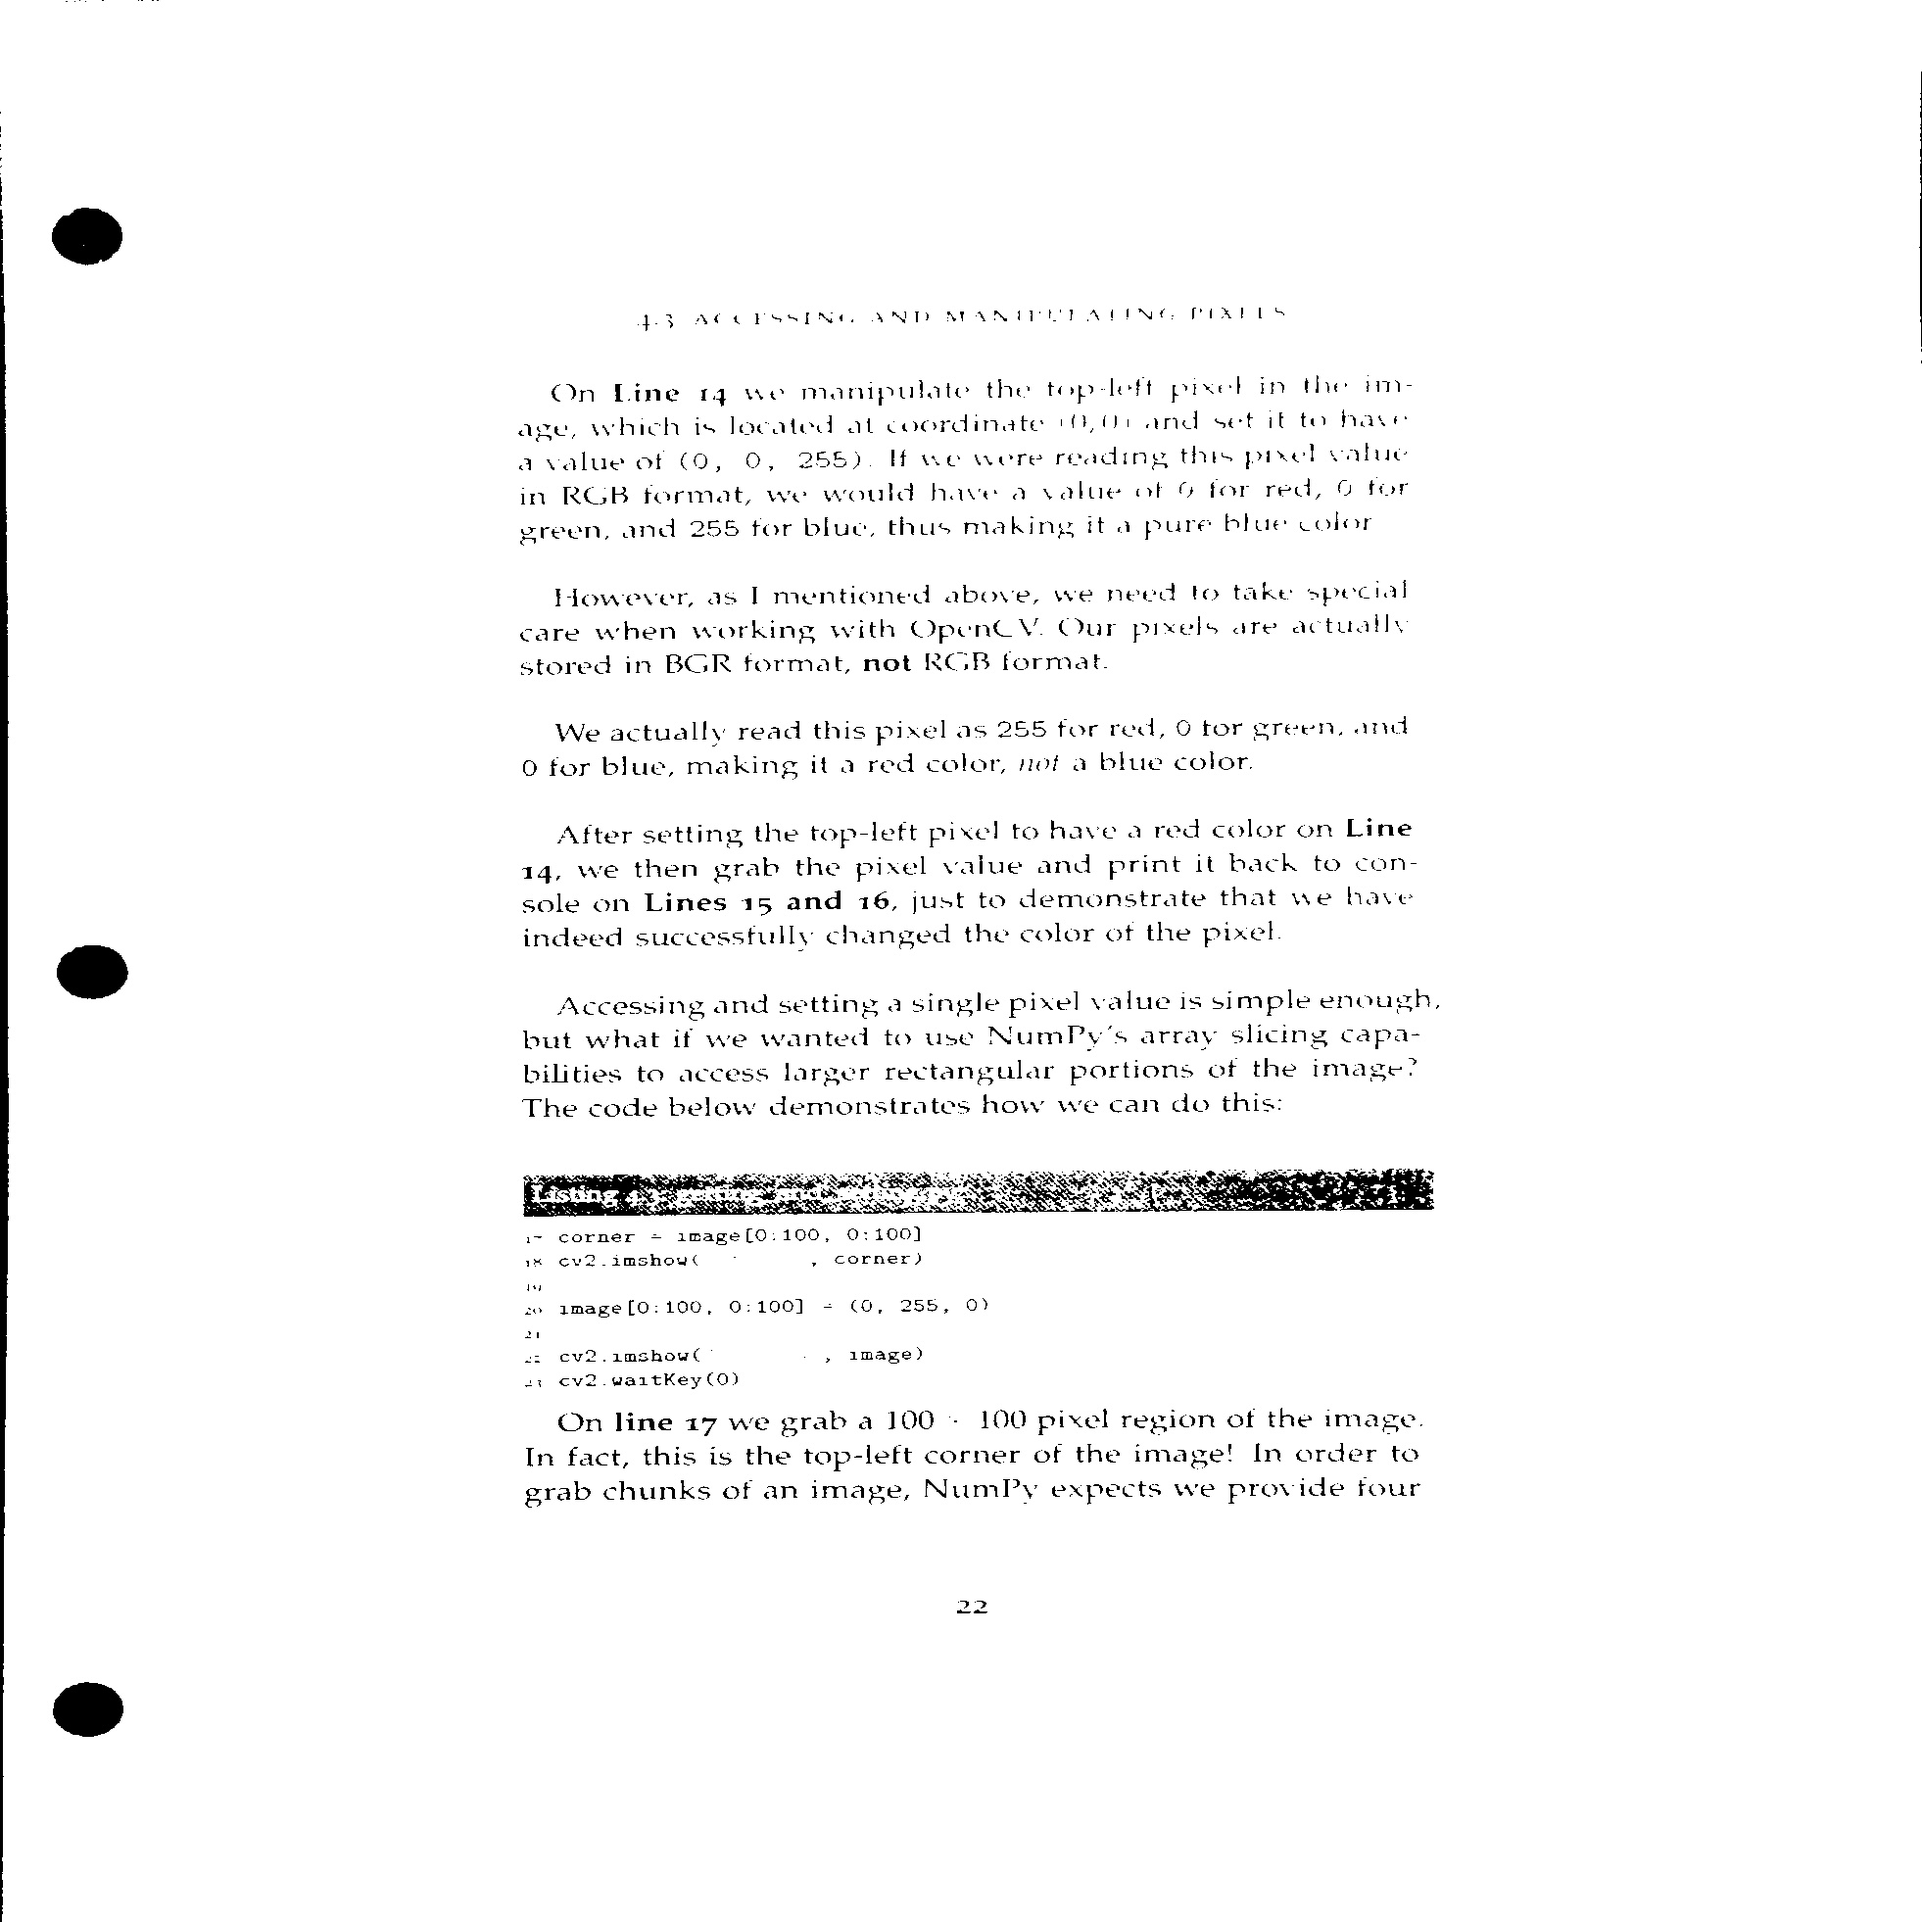
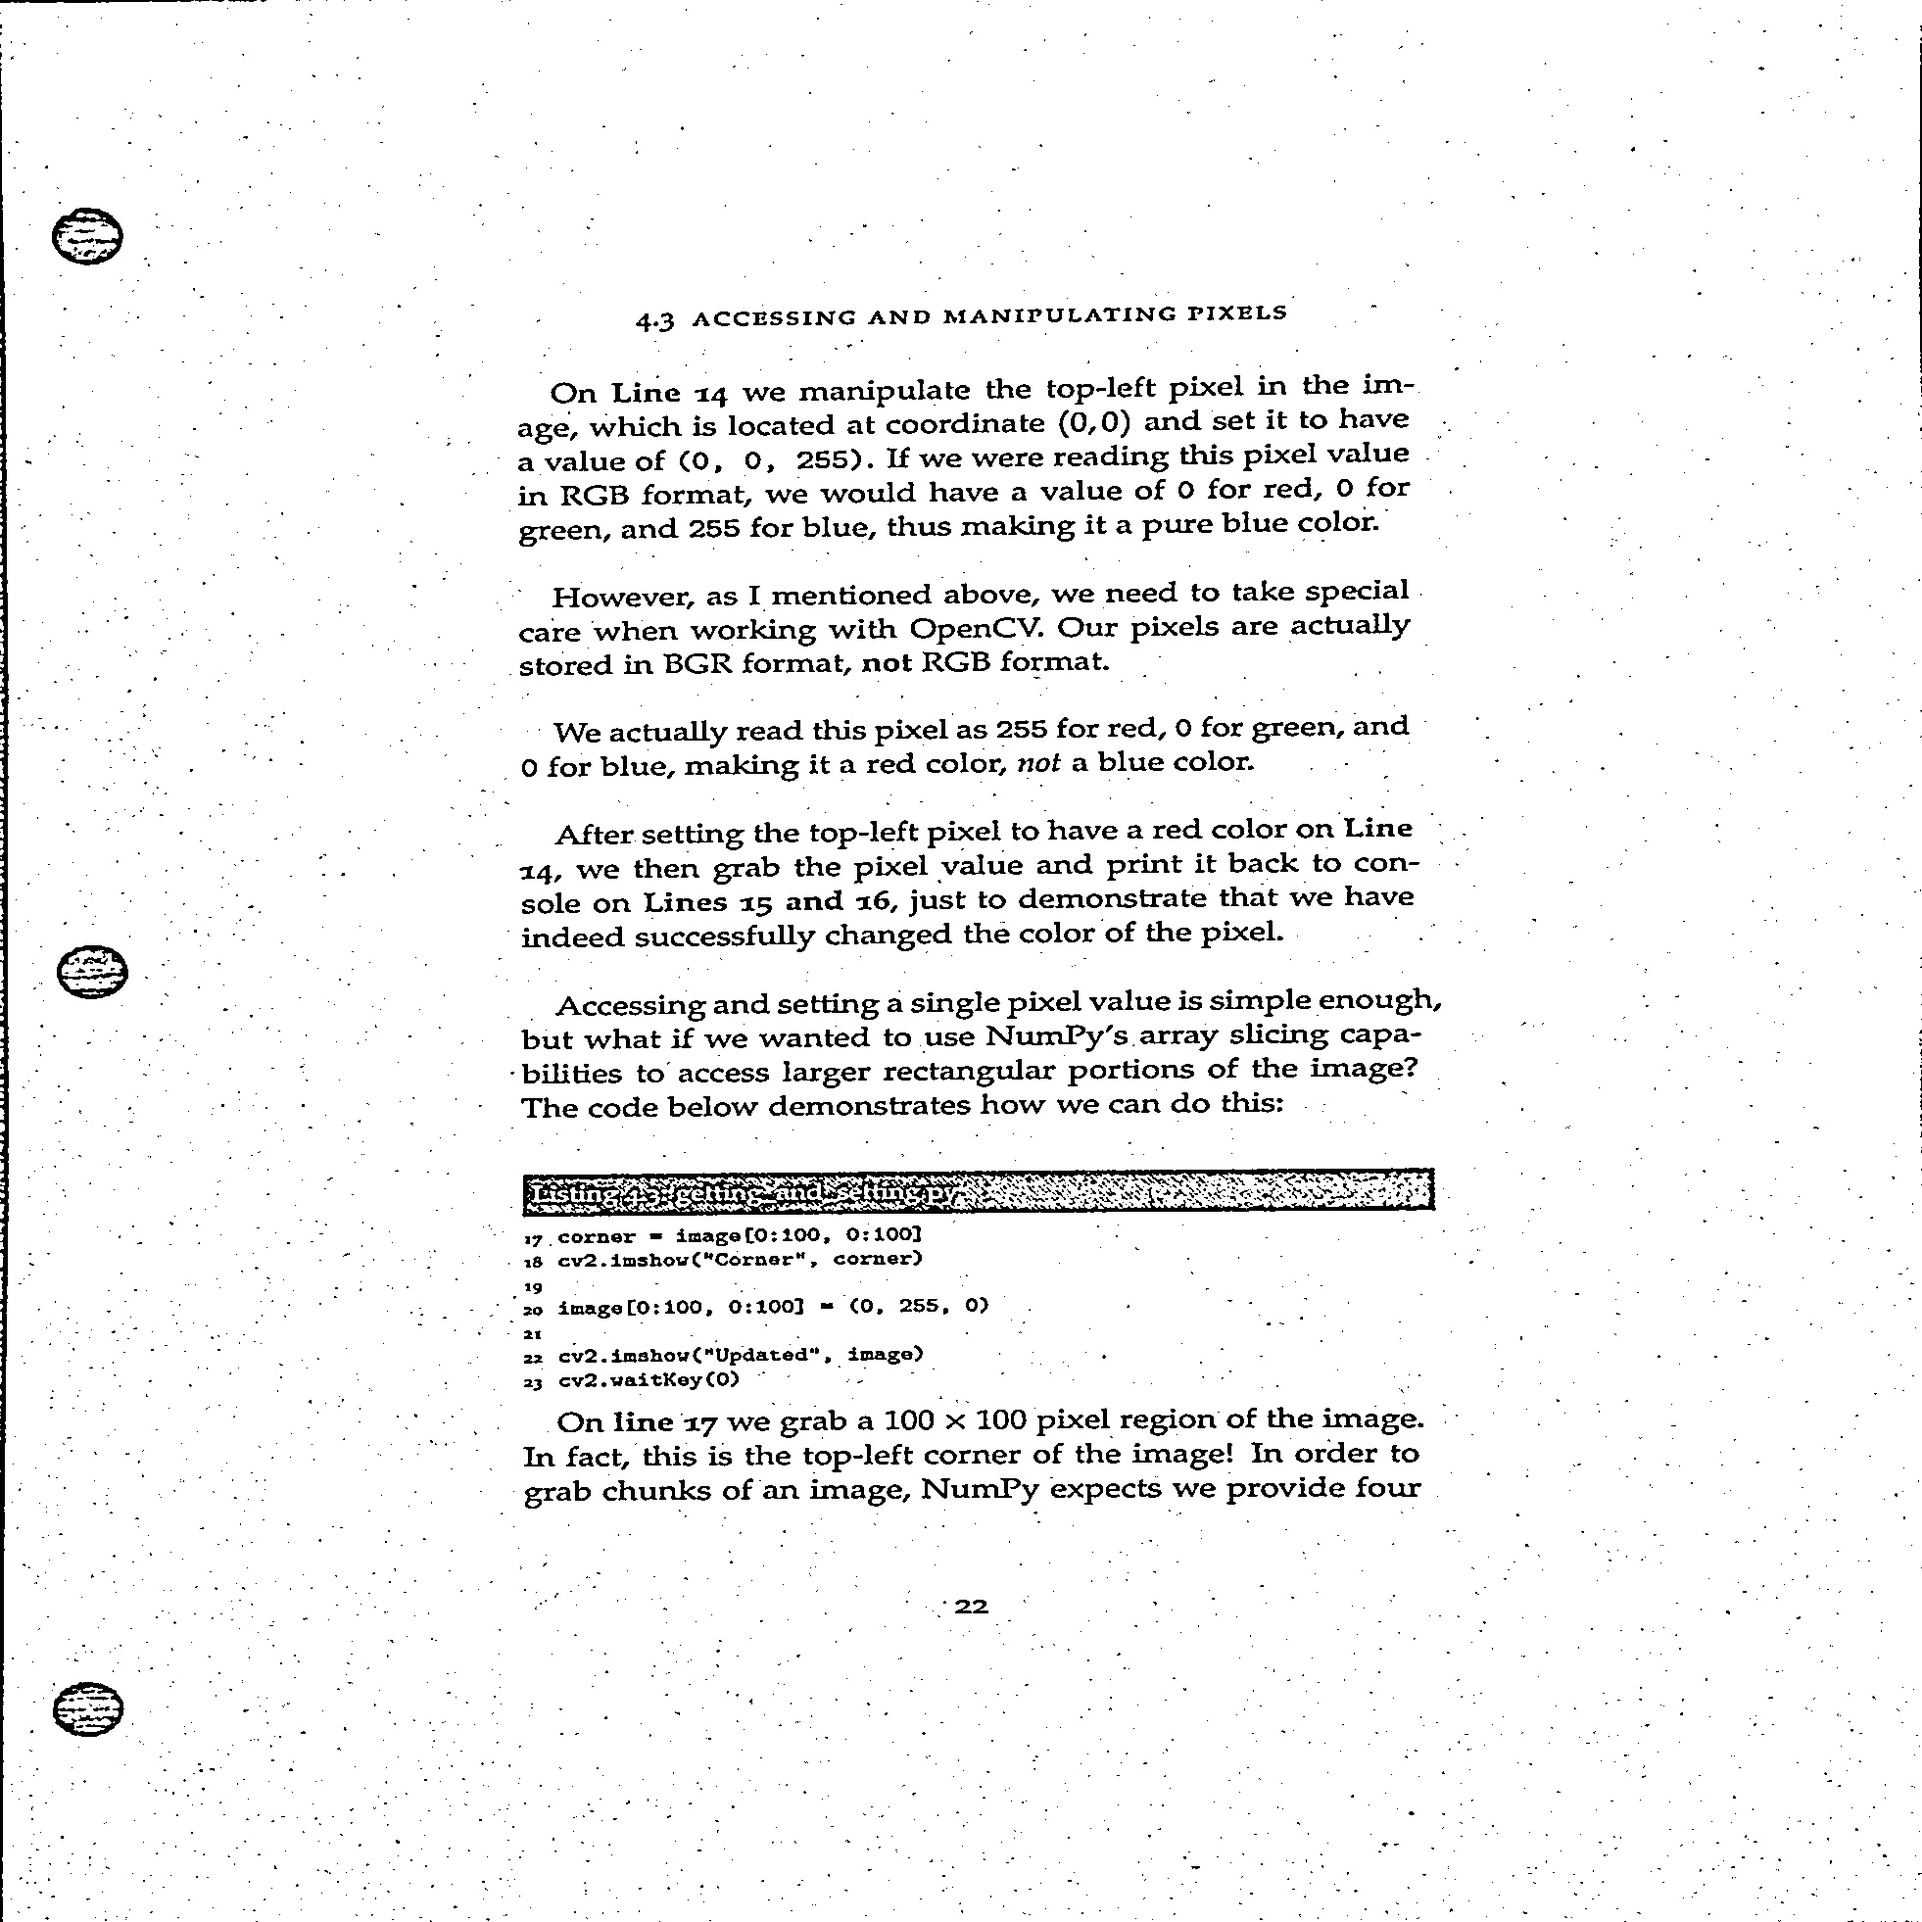
文档识别项目加入自适应高斯阈值

diff --git a/scan_new.py b/scan_new.py
@@ -158,10 +158,21 @@ warped = four_point_transform(orig, screenCnt.reshape(4, 2) * ratio)
 
 # step4 二值化：模拟扫描黑白文档效果
 warped = cv2.cvtColor(warped, cv2.COLOR_BGR2GRAY) #矫正后色彩图转灰度图
+# 轻微模糊，消除照片颗粒噪点
+warped = cv2.GaussianBlur(warped,(3,3),0)
+ref = cv2.adaptiveThreshold(warped,255,cv2.ADAPTIVE_THRESH_GAUSSIAN_C,cv2.THRESH_BINARY,15,3)
 
 # 阈值二值化：大于100设置为255白色，小于100设置为0黑色：输出ref就是扫描效果
-ref = cv2.threshold(warped, 100, 255, cv2.THRESH_BINARY)[1]
-
+# ref = cv2.threshold(warped, 100, 255, cv2.THRESH_BINARY)[1]
+# 自适应高斯阈值，适合光线不均匀的文档照片
+ref = cv2.adaptiveThreshold(
+    warped,
+    255,
+    cv2.ADAPTIVE_THRESH_GAUSSIAN_C,
+    cv2.THRESH_BINARY,
+    blockSize=15,
+    C=3
+)
 
 cv2.imwrite("scan.jpg", ref)#将扫描结果保存为scan.jpg
 
